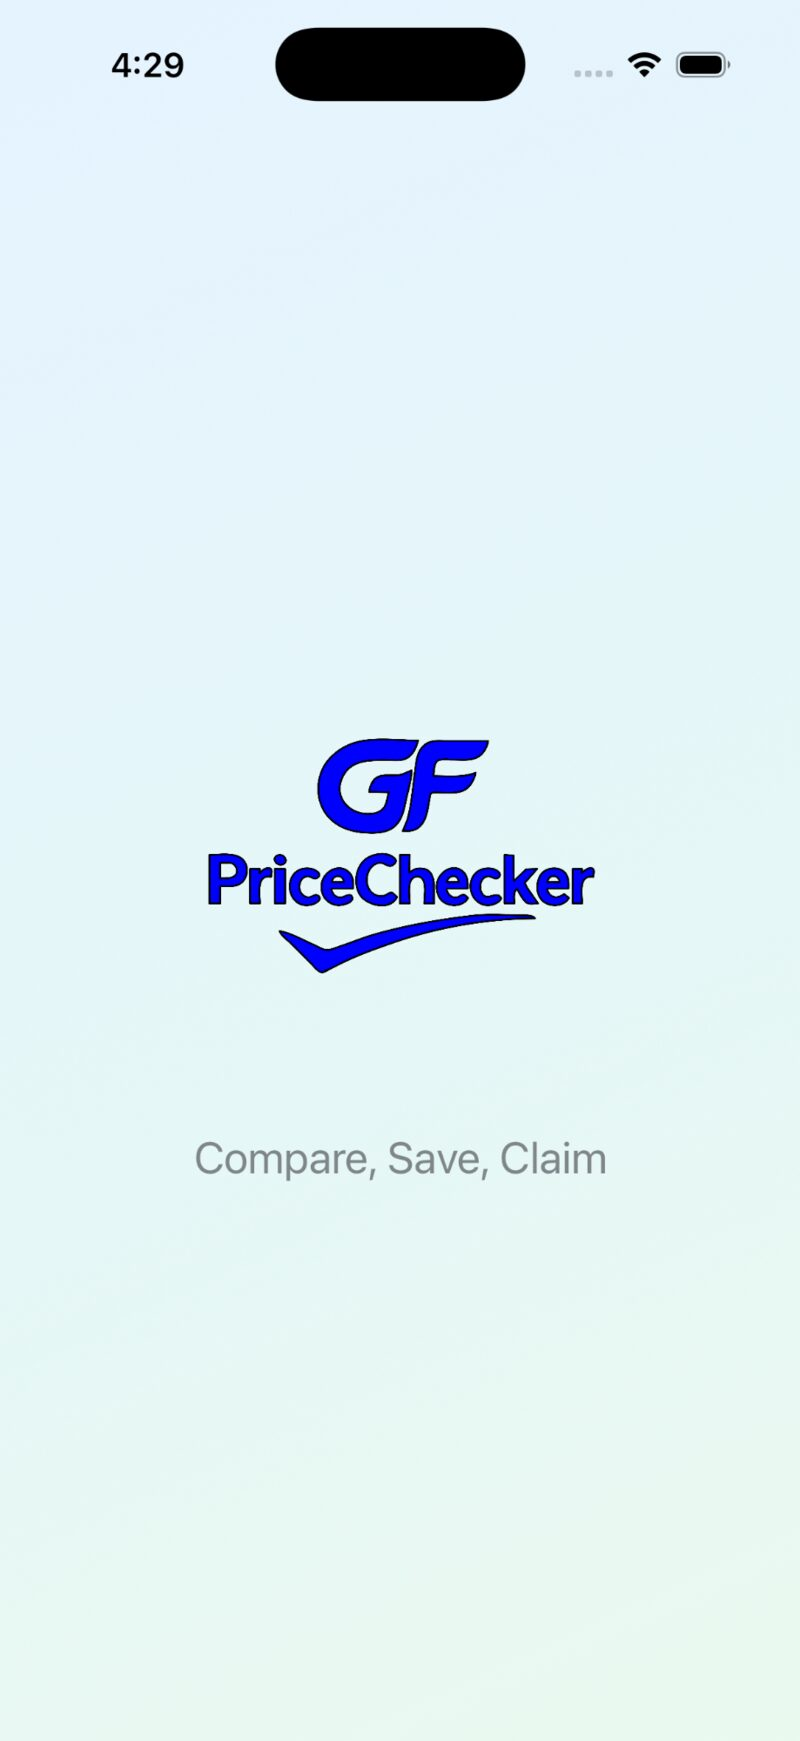
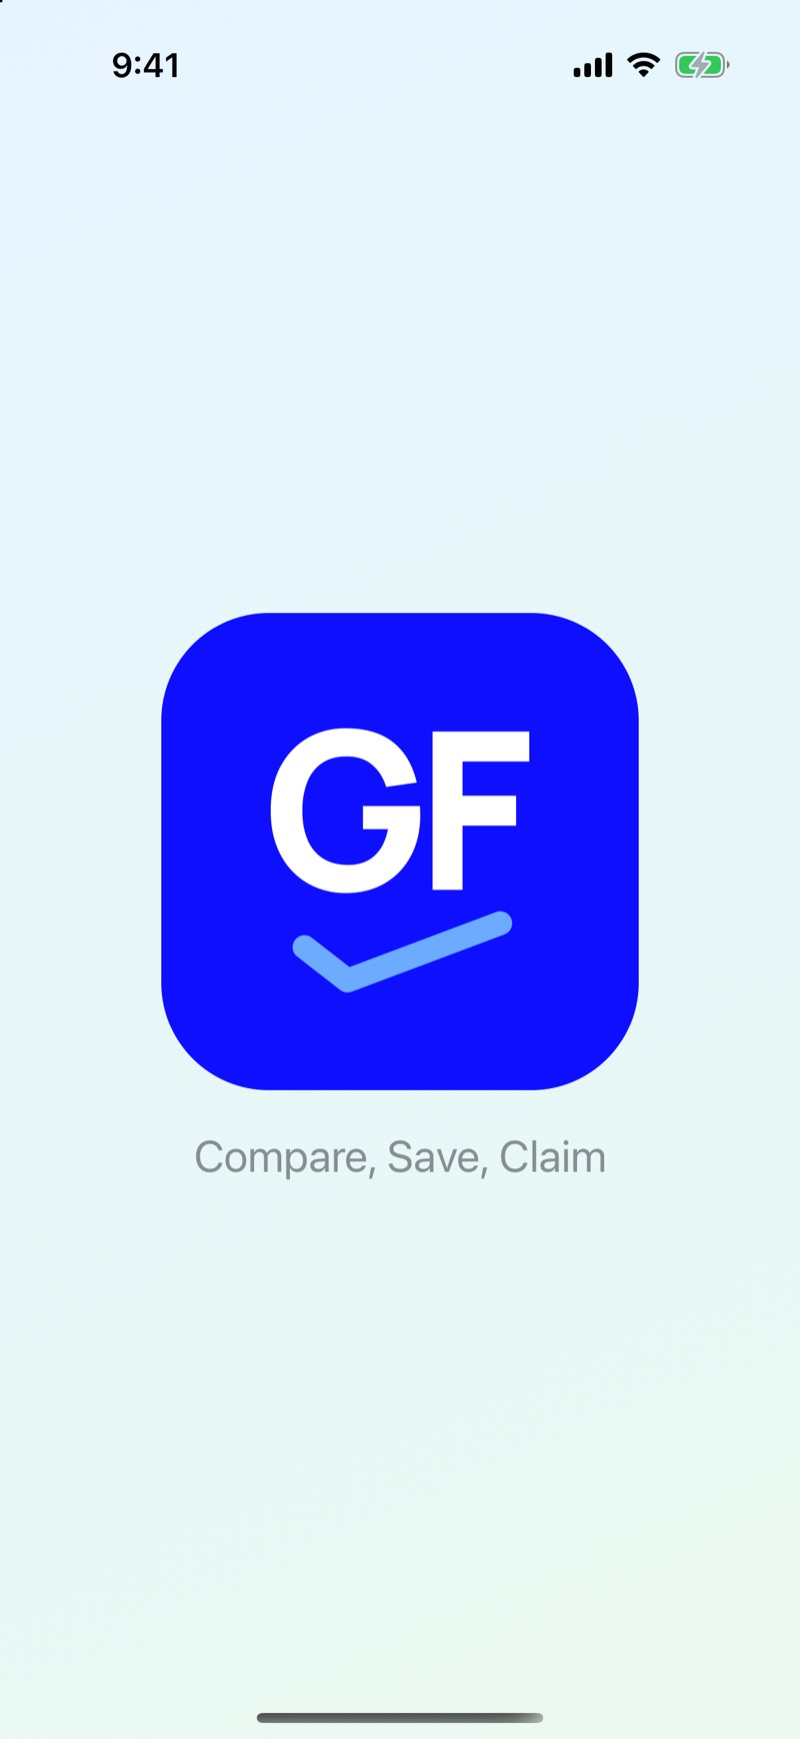
Re-capture the launch screen screenshot with the GF monogram
The app replaced its GFPC_Logo wordmark with the GF monogram
(CuWilliams/GFPriceChecker#100), so carousel slide 1 showed a logo the app
no longer has. Captured from the iPhone 17 Pro Simulator (iOS 26.5) at
the app's main, status bar at 9:41, scaled to 800 px wide like the old one.

The media note, Claude.md's outstanding-work list and the changelog now
count it among the current screenshots.

diff --git a/features.html b/features.html
@@ -105,8 +105,8 @@
       <div class="container">
         <h2 class="text-center mb-md">See It in Action</h2>
         <p class="media-note">
-          The pair review, receipt verification and Reports dashboard screenshots show the current
-          build. The rest were captured in January 2026 and show an earlier one, whose product
+          The launch screen, pair review, receipt verification and Reports dashboard screenshots
+          show the current build. The rest were captured in January 2026 and show an earlier one, whose product
           screens led with the package price difference rather than the size-adjusted
           differential. New screenshots are on the way.
         </p>

diff --git a/Claude.md b/Claude.md
@@ -440,6 +440,12 @@ pipeline covers.
 - **Screenshots 08, 10 and 14** (pair review, receipt verification, Reports dashboard) are the
   pipeline's, cut by `Tools/Demo/stills.sh` and copied over their namesakes. Re-run it and copy
   again after a build changes those screens. Keep the file names: the script writes them.
+- **Screenshot 01** (launch screen) was hand-captured in October 2026 from the iPhone 17 Pro
+  Simulator after the app swapped its wordmark for the GF monogram
+  ([CuWilliams/GFPriceChecker#100](https://github.com/CuWilliams/GFPriceChecker/issues/100)).
+  The pipeline doesn't cut it: scripted takes replace the launch screen with a flat curtain. To
+  redo it, cold-launch the app with `xcrun simctl launch`, take `xcrun simctl io … screenshot`
+  inside the 1.5 s hold, and scale to 800 px wide as a JPEG.
 - **Screenshots 09, 11, 12 and 13** (receipt detail, product detail, Library, export) are from
   January 3 2026, and the product screens lead with the package price difference. They need
   storyboard marks in the app before the pipeline can cut them.

diff --git a/CHANGELOG.md b/CHANGELOG.md
@@ -29,6 +29,12 @@ gh release create v1.3.0 --title "v1.3.0 - Short description" --notes-file <note
 
 ## [Unreleased]
 
+### Changed
+- The launch screen screenshot (carousel slide 1) shows the app's GF monogram in place of the
+  retired wordmark, matching the app's change in
+  [CuWilliams/GFPriceChecker#100](https://github.com/CuWilliams/GFPriceChecker/issues/100).
+  The carousel's media note now counts it among the current screenshots.
+
 ## [1.3.0] - 2026-10-31
 
 New walkthrough videos from the app's scripted demo pipeline, and the app's GF monogram across the site ([#19](https://github.com/CuWilliams/GFPriceChecker.github.io/issues/19), [#25](https://github.com/CuWilliams/GFPriceChecker.github.io/pull/25)).
